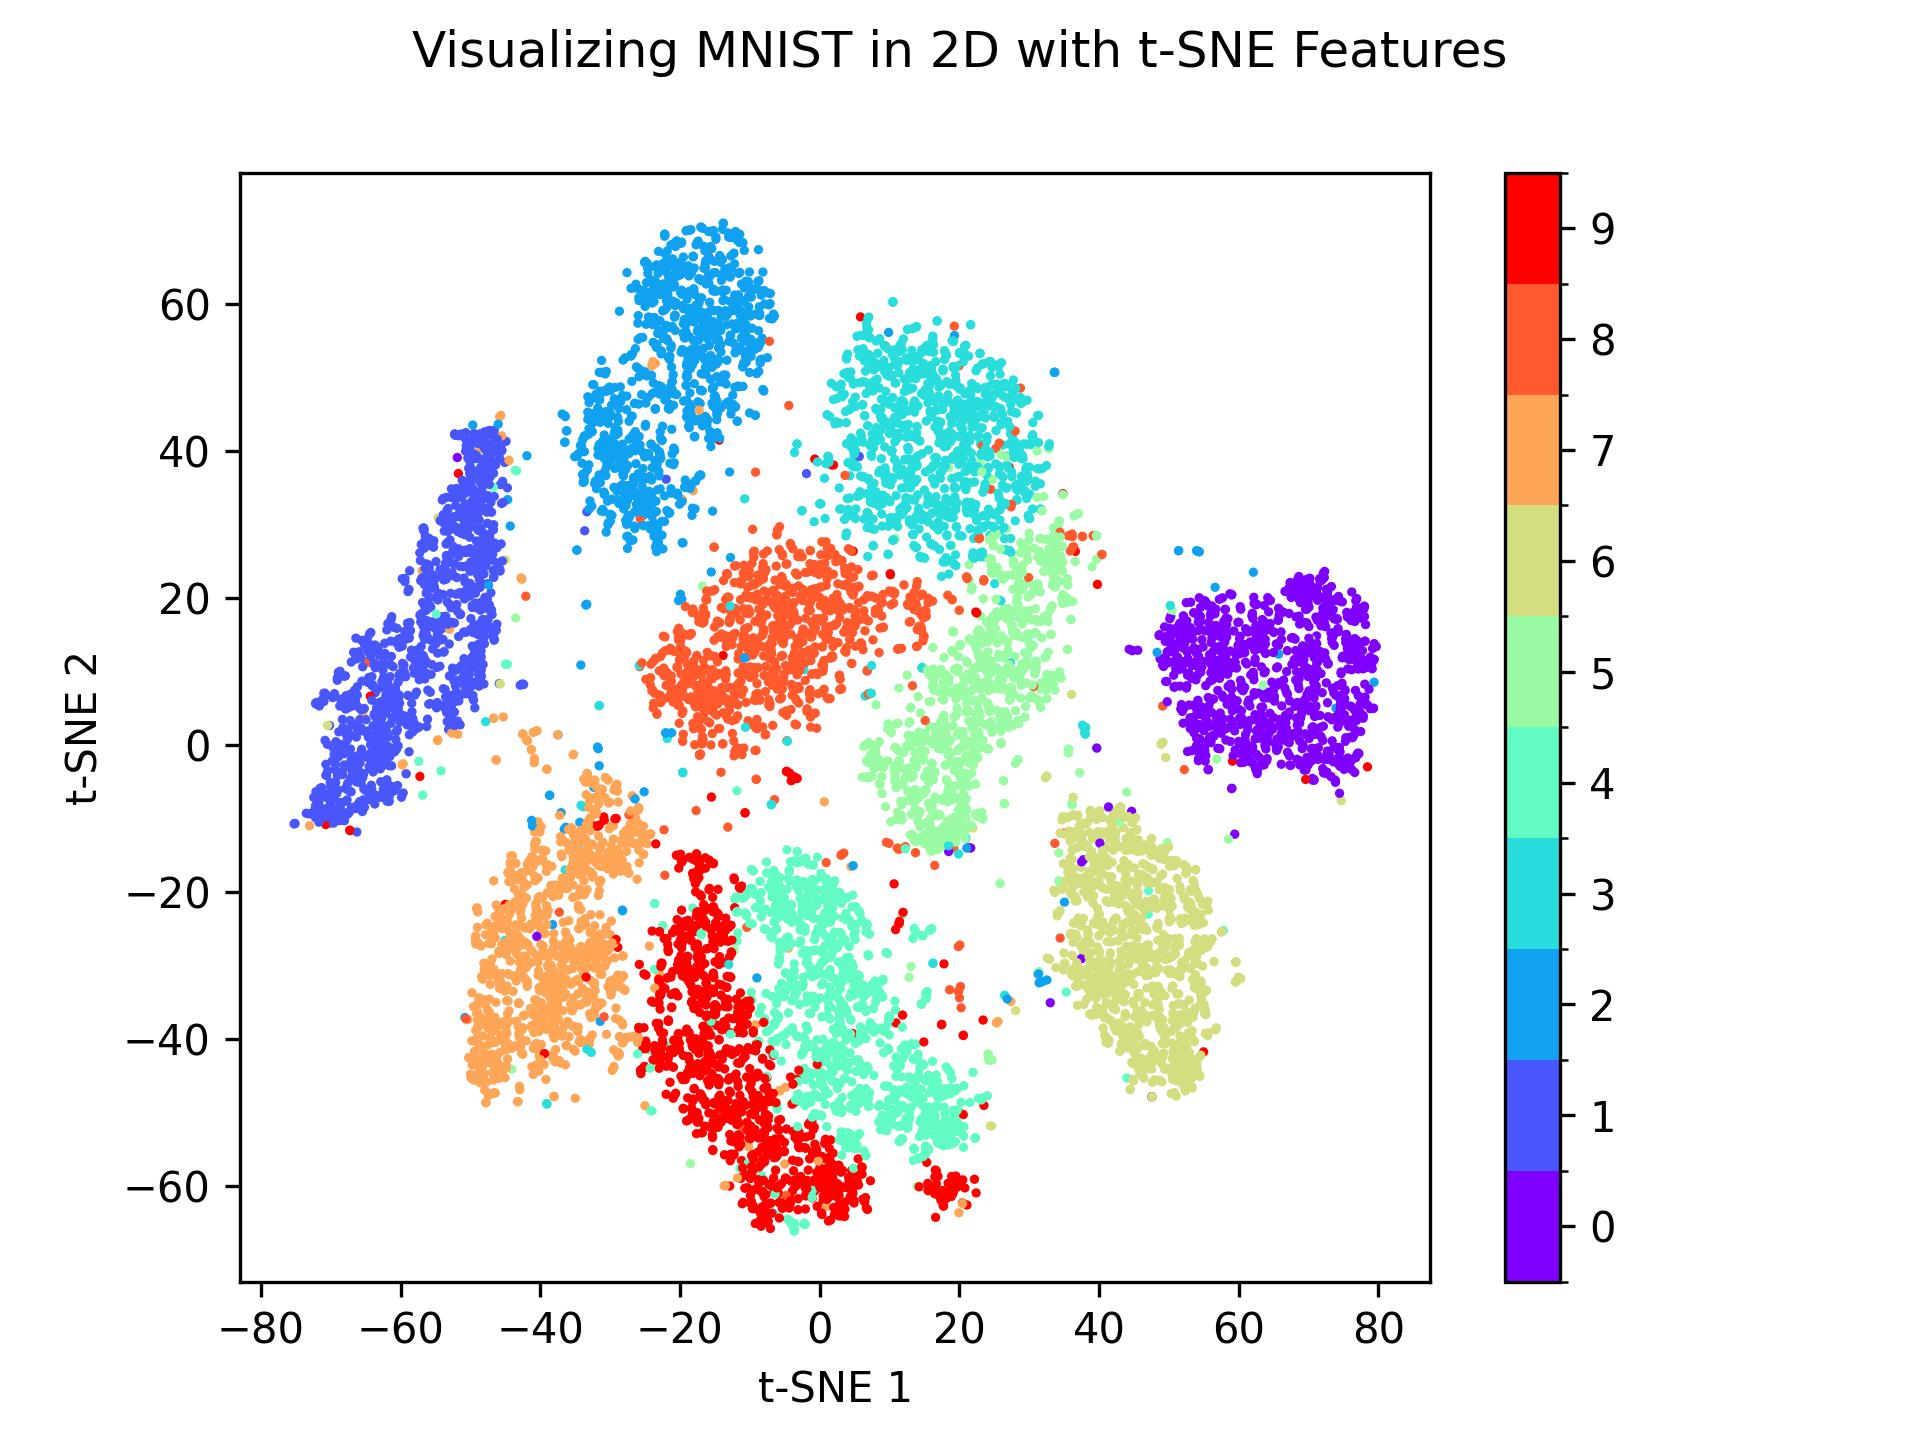
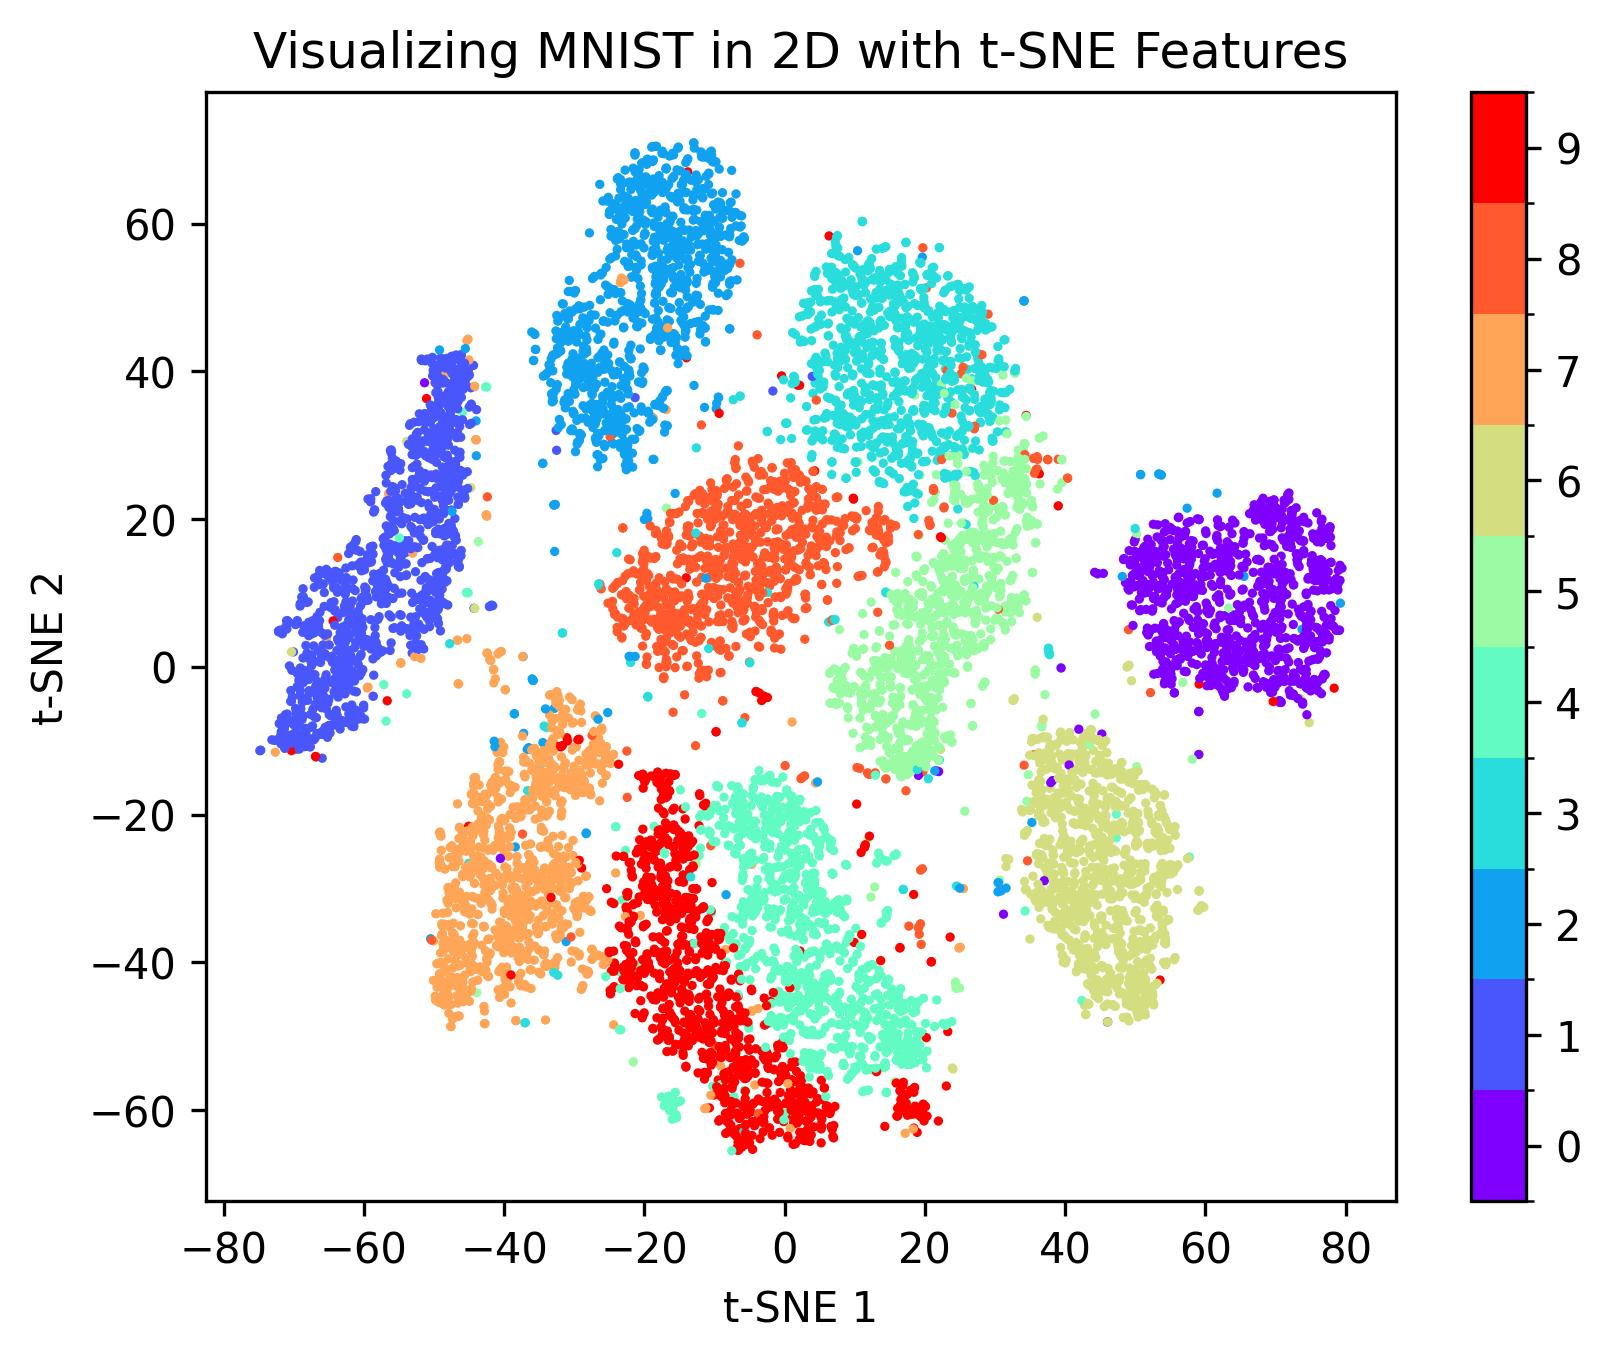
working on readme

diff --git a/README.md b/README.md
@@ -14,23 +14,31 @@ by a neural network? As it turns out, the answer is yes. In fact, generative mod
 of the form $p\_{θ}(x)$ are designed exactly for the purpose of 
 generating new data points that resemble those from $X$, by learning a set of
 parameters $\theta$ that adequately capture important patterns in, and 
-relationships between data points in $X$. In the following section, we will 
+relationships between data points in $X$. 
+
+What can be learned about $X$? Consider handwritten digits. If we have many, 
+many examples of each digit, we will see differences in how they're written; 
+however, among all examples, there will be similarities (otherwise they
+wouldn't be the same digit). What's more is that for different digits, there are 
+similarities too (e.g. 8s look like 3s and 6s are upside down 9s). The lines and curves
+that make up digits are some of the features that can be easily learned by a neural network.
+<p align="middle" float="left">
+  <img src="assets/mnist_tsne.jpg" width="70%" />
+</p>
+<p align="middle" float="left">
+  <img src="assets/mnist_digits.jpg" width="50%" />
+</p>
+
+In the following section, we will 
 examine the autoencoder, which serves as a stepping stone for understanding the VAE, a
 significantly more powerful generative model.
 
 ### What is an Autoencoder?
 An autoencoder is a neural network typically used in unsupervised learning tasks,
 where the goal is to learn something about $X$ itself, and not its relationship with
-a set of labels $Y$ (even if they exist). What can be learned about just $X$? Consider
-handwritten digits. If we have many, many examples of each digit, we will see differences
-in how they're written; however, among all examples, there will be similarities (otherwise they
-wouldn't be the same digit). What's more is that for different digits, there are 
-similarities too (e.g. 8s look like 3s and 6s are upside down 9s). The lines and curves
-that make up digits are some of the features that can be easily learned by a neural network.
+a set of labels $Y$ (even if they exist).
 
-<p align="middle" float="left">
-  <img src="assets/mnist_digits.jpg" width="50%" />
-</p>
+
 
 Autoencoders consist of two separate neural networks: firstly, the encoder, which
 compresses 
